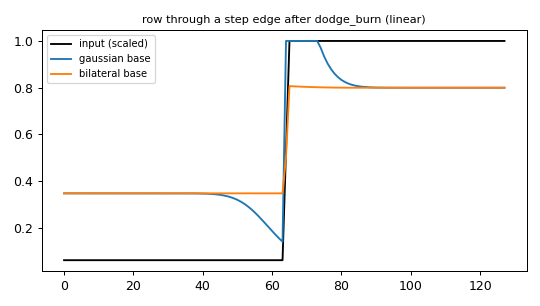
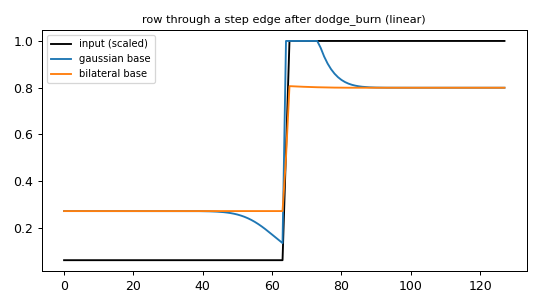
Fix slide references against the decks; keep black objects dark in dodge and burn
Slide references now point at the PDF page that shows the cited content
(e.g. SNR examples L2 p32, ISO p39; removed the non-existent L2 s45).
dodge_burn soft-limits the shadow lift and applies it multiplicatively, so
true black stays black (regression test added). The regular dot texture in
the median/Malvar crops is documented as expected on saturated colour.

Changed region(s): [[0.1185, 0.5294, 0.5333, 0.7647], [0.5037, 0.7647, 0.5333, 0.7941]]

diff --git a/isp/sensor.py b/isp/sensor.py
@@ -65,7 +65,7 @@ class SensorParams:
 
 
 PRESETS = {
-    # numbers of L2 s31 / s33
+    # sensor numbers of L2 s27, SNR examples of L2 s32, dynamic range of L2 s33
     "retiga_4000r": SensorParams(qe=0.55, full_well=40000, dark_current=1.64, read_noise=12.0,
                                  bits=12, black_level=64, prnu=0.005, dsnu=0.2,
                                  hot_pixel_fraction=1e-4, hot_pixel_rate=30.0, name="Retiga 4000R"),
@@ -93,7 +93,7 @@ def fixed_pattern(shape, params: SensorParams) -> dict:
     ``dark`` the per-pixel dark current in e-/s (mean + DSNU + hot pixels, >= 0) and
     ``hot`` the boolean hot-pixel map.  Derived only from ``params.sensor_seed`` and
     ``shape``: identical on every call, so a dark frame measured once describes every
-    later exposure (L2 s43).
+    later exposure (L2 s28-29).
     """
     shape = tuple(int(s) for s in shape)
     r = np.random.default_rng(np.random.SeedSequence([int(params.sensor_seed), *shape]))
@@ -115,7 +115,7 @@ def expose(image, exposure, params: SensorParams, flux_at_white=DEFAULT_FLUX, se
 
     Parameters: image in [0, 1] (linear), exposure in s, flux_at_white in photons/pixel/s,
     seed for the per-shot noise (fixed pattern does not depend on it).
-    Returns float32 electrons.   Reference: L2 s34, s45.
+    Returns float32 electrons.   Reference: L2 s34, s31.
     """
     img = np.clip(np.asarray(image, dtype=np.float64), 0.0, None)
     fp = fixed_pattern(img.shape, params)
@@ -129,7 +129,7 @@ def adc(electrons, params: SensorParams, iso=100, seed=0):
     """Electrons -> digital numbers: + read noise, gain, black level, rounding, clipping.
 
     DN = clip(round(gain (e + N(0, N_r^2)) + black), 0, 2^bits - 1),  gain = base_gain iso/100.
-    Returns float32 holding integers.   Reference: L2 s34, s40.
+    Returns float32 holding integers.   Reference: L2 s34, s39.
     """
     e = np.asarray(electrons, dtype=np.float64)
     e = e + rng(seed).standard_normal(e.shape) * params.read_noise
@@ -156,7 +156,7 @@ def capture(image, exposure, iso, params: SensorParams, flux_at_white=DEFAULT_FL
 # calibration and clean-up
 # --------------------------------------------------------------------------
 def dark_frame(shape, exposure, iso, params: SensorParams, seed=1):
-    """Lens-cap exposure: dark current, hot pixels, FPN and read noise only (L2 s42-43)."""
+    """Lens-cap exposure: dark current, hot pixels, FPN and read noise only (L2 s24-30)."""
     return adc(expose(np.zeros(shape), exposure, params, seed=seed), params, iso, seed=seed + 7919)
 
 
@@ -209,7 +209,7 @@ def average_frames(frames):
 # theory
 # --------------------------------------------------------------------------
 def snr_theory(P, qe, t, D, Nr):
-    """SNR = P QE t / sqrt(P QE t + D t + Nr^2).   Reference: L2 s31, s45."""
+    """SNR = P QE t / sqrt(P QE t + D t + Nr^2).   Reference: L2 s31-32."""
     s = np.asarray(P, np.float64) * qe * t
     return s / np.sqrt(s + D * t + Nr ** 2)
 
@@ -234,7 +234,7 @@ def measure_snr(params: SensorParams, value=0.5, exposure=0.01, iso=100, n=32, s
 
     Uses the temporal std of each pixel (so fixed pattern does not count as noise), in
     electrons.  ``mean_e`` is the signal charge (mean dark charge removed, as in the
-    numerator of L2 s45).  Returns dict(snr, mean_e, std_e).  Compare with ``snr_theory_params``.
+    numerator of L2 s31).  Returns dict(snr, mean_e, std_e).  Compare with ``snr_theory_params``.
     """
     img = np.full(shape, value, np.float64)
     stack = np.stack([capture(img, exposure, iso, params, flux_at_white, seed=seed + k)[0]

diff --git a/isp/tonemap.py b/isp/tonemap.py
@@ -19,6 +19,7 @@ from .utils import linear_to_srgb, luminance
 
 _EPS = 1e-6
 _LOG_EPS = 1e-4  # floor for log luminance: 13 stops below white, keeps pure black from dominating
+_MAX_LIFT = 6.0  # stops: soft limit of the base-layer lift in dodge_burn
 METHODS = ("srgb", "linear", "gamma", "hist", "clahe", "local")
 
 
@@ -187,15 +188,27 @@ def dodge_burn(img, sigma=None, strength: float = 0.6, base: str = "gaussian",
                sigma_r: float = 0.5, saturation: float = 1.0, return_layers: bool = False):
     """Automatic dodging and burning (local tone mapping), linear in -> linear out.
 
-    With L = log2 Y split into base B and detail D (:func:`decompose`):
+    With L = log2 Y split into base B and detail D (:func:`decompose`), the anchor is the
+    brightest base value B_max (Durand-Dorsey: the max base maps to 0 stops, the rest is
+    compressed towards it):
 
         L_out = D + (1 - strength) * (B - B_max) + B_max  =  L + strength * (B_max - B)
 
     The base layer's contrast is compressed towards its brightest value (dark regions
     are lifted = dodged relative to bright ones = burned) while the detail layer is
-    kept untouched.  Colour is restored as  rgb_out = (rgb / Y)^saturation * Y_out.
-    ``strength=0`` returns the input; ``strength=1`` flattens the base layer completely.
-    The result is scaled down per pixel where a channel would exceed 1 (hue kept).
+    kept untouched.  Two guards keep deep blacks black:
+
+    * the lift ``x = B_max - B`` (stops) is soft-limited, ``R tanh(x / R)`` with R = 6
+      stops (about ``x`` for small ``x``), so the darkest regions are not lifted without
+      bound (a black object is lifted by at most ~``strength * 6`` stops, not by the full
+      13-stop range of the scene);
+    * the gain is applied multiplicatively, ``Y_out = Y * 2 ** lift``, so a true zero
+      stays zero (no floor offset is added back).
+
+    Colour is restored as  rgb_out = (rgb / Y)^saturation * Y_out.
+    ``strength=0`` returns the input; ``strength=1`` flattens the base layer up to the
+    soft limit.  The result is scaled down per pixel where a channel would exceed 1 (hue
+    kept).
     Apply :func:`isp.utils.linear_to_srgb` afterwards for display.
 
     This is the Durand-Dorsey base/detail operator; Reinhard et al. (2002) is the classic
@@ -208,9 +221,10 @@ def dodge_burn(img, sigma=None, strength: float = 0.6, base: str = "gaussian",
         out = np.clip(a, 0.0, 1.0)
         return (out, decompose(a, sigma, base, sigma_r)) if return_layers else out
     B, D = decompose(a, sigma, base, sigma_r)
-    L_out = D + (1.0 - strength) * (B - B.max()) + B.max()
     y = luminance(a)
-    y_out = np.clip(np.exp2(L_out) - _LOG_EPS, 0.0, None).astype(np.float32)
+    x = B.max() - B                                    # how far below the brightest base, stops
+    lift = strength * _MAX_LIFT * np.tanh(x / _MAX_LIFT)
+    y_out = (y * np.exp2(lift)).astype(np.float32)     # multiplicative: true black stays black
     if a.ndim == 2:
         out = np.clip(y_out, 0, 1)
     else:

diff --git a/tests/test_tonemap.py b/tests/test_tonemap.py
@@ -132,3 +132,21 @@ def test_histogram():
     img = scenes.gray_ramp(64)
     assert T.histogram(img, 16).sum() == 64 * 64
     assert T.histogram(img, 16, per_channel=True).shape == (3, 16)
+
+
+def test_dodge_burn_keeps_black_object_dark():
+    # regression: a deep-black object in the bright half used to be lifted ~12 stops and
+    # blow out to white with speckles; now it is lifted by a bounded amount.
+    img = scenes.high_contrast(128).copy()
+    yy, xx = np.mgrid[:128, :128]
+    disc = (yy - 90) ** 2 + (xx - 100) ** 2 < 18 ** 2
+    img[disc] = 0.002
+    img[(yy - 90) ** 2 + (xx - 100) ** 2 < 4 ** 2] = 0.0          # true black pixels inside
+    left = utils.luminance(img)[:, :32].mean()
+    for base in ("gaussian", "bilateral"):
+        out = T.dodge_burn(img, sigma=8, strength=0.7, base=base)
+        yo = utils.luminance(out)
+        assert yo[disc].mean() < 0.03, (base, yo[disc].mean())
+        assert yo[disc].max() < 0.04, (base, yo[disc].max())
+        assert out[(yy - 90) ** 2 + (xx - 100) ** 2 < 4 ** 2].max() == 0.0   # zero stays zero
+        assert yo[:, :32].mean() > 5 * left                          # shadows are still lifted

diff --git a/isp/demosaic.py b/isp/demosaic.py
@@ -231,7 +231,7 @@ def _noise(shape, sigma, seed):
 
 
 def field_sequential(scene, motion=(0.0, 0.0), frames=None, noise=0.0, seed=0) -> np.ndarray:
-    """Field-sequential capture: R, G, B are three exposures at times 0, 1, 2 (L3 s5-7).
+    """Field-sequential capture: R, G, B are three exposures at times 0, 1, 2 (L3 s6-7).
 
     The scene moves by ``motion = (dy, dx)`` pixels per exposure (or pass your own
     ``frames=(f_R, f_G, f_B)``).  ``out[..., c] = frame_c[..., c]``.  Static: exact.
@@ -246,7 +246,7 @@ def field_sequential(scene, motion=(0.0, 0.0), frames=None, noise=0.0, seed=0) -
 
 
 def three_sensor(scene, noise=0.0, seed=0) -> np.ndarray:
-    """Ideal 3-sensor camera (prism + 3 sensors, L3 s8): every pixel gets R, G and B.  Exact when noise = 0."""
+    """Ideal 3-sensor camera (prism + 3 sensors, L3 s9): every pixel gets R, G and B.  Exact when noise = 0."""
     s = np.asarray(scene, dtype=np.float32)
     return (s + _noise(s.shape, noise, seed)).astype(np.float32)
 

diff --git a/isp/denoise.py b/isp/denoise.py
@@ -154,7 +154,7 @@ def bilateral_weights(img, center, sigma_d: float, sigma_r: float, radius: int |
 # --------------------------------------------------------------------------
 def median(img, size: int = 3) -> np.ndarray:
     """Median filter, per channel, ``size x size`` window (good against salt-and-pepper
-    / hot pixels, edge preserving but removes thin detail).  Reference: L3 s27 (same idea)."""
+    / hot pixels, edge preserving but removes thin detail).  Reference: L3 s26 (same idea: a median removes spikes)."""
     img = _f32(img)
     if img.ndim == 2:
         return ndi.median_filter(img, size=size, mode="mirror").astype(np.float32)

diff --git a/scripts/make_figures_sensor.py b/scripts/make_figures_sensor.py
@@ -98,7 +98,7 @@ def fig_snr():
     save(fig, "sensor_snr_vs_exposure.png")
     for name, flux in (("retiga_4000r", 1000.0), ("aptina_mt9p031", 1000.0 / 11)):
         p = S.PRESETS[name]
-        print(f"    L2 s31 {p.name}: SNR(1 s) = {S.snr_theory(flux, p.qe, 1.0, p.dark_current, p.read_noise):.1f}")
+        print(f"    L2 s32 {p.name}: SNR(1 s) = {S.snr_theory(flux, p.qe, 1.0, p.dark_current, p.read_noise):.1f}")
         for t in (1, 1 / 60):
             print(f"    L2 s33 {p.name} DR(t={t:.4f}) = {S.dynamic_range(p.full_well, p.dark_current, t, p.read_noise):.0f}:1")
 

diff --git a/tests/test_sensor.py b/tests/test_sensor.py
@@ -9,7 +9,7 @@ def flat(v, n=64):
     return np.full((n, n), v, np.float32)
 
 
-def test_snr_theory_slide31():
+def test_snr_theory_slide32():
     r = S.PRESETS["retiga_4000r"]
     a = S.PRESETS["aptina_mt9p031"]
     assert abs(S.snr_theory(1000, r.qe, 1.0, r.dark_current, r.read_noise) - 20.8) < 0.1

diff --git a/docs/04_tone_mapping.md b/docs/04_tone_mapping.md
@@ -15,7 +15,7 @@ After white balance and demosaicing the image is still *linear*: pixel values ar
 
 **Automatic dodge and burn (base/detail).** Work in the log of luminance, `L = log2 Y`, where multiplying light by a factor is an addition. Split `L = B + D` with a smooth base `B` (the local brightness, the "where would the card go" map) and a detail layer `D = L - B` (texture and edges). Then
 `L_out = D + (1 - s)(B - B_max) + B_max = L + s (B_max - B)`.
-Every pixel is brightened by `s` times how far its local brightness is below the brightest region, in stops. The detail is untouched, the base contrast is reduced by the factor `1 - s`. This is the scheme of Durand and Dorsey (2002); Reinhard et al. (2002), "Photographic Tone Reproduction", is the classic automatic dodging-and-burning operator that uses a global key plus a local adaptation level. **We implement the Durand-Dorsey base/detail operator** and borrow the idea of an anchor (`B_max`) from Reinhard.
+Every pixel is brightened by `s` times how far its local brightness is below the brightest region, in stops, with that lift soft-limited to about 6 stops, `R tanh(x / R)` with `x = B_max - B` and `R = 6`. Without the limit the darkest region of the scene (here a black visor, 13 stops below white) gets the largest lift of all and is blown out together with its noise; with it a black object is lifted by at most about `0.7 * 6 = 4` stops. The detail is untouched, the base contrast is reduced by the factor `1 - s`. This is the scheme of Durand and Dorsey (2002); Reinhard et al. (2002), "Photographic Tone Reproduction", is the classic automatic dodging-and-burning operator that uses a global key plus a local adaptation level. **We implement the Durand-Dorsey base/detail operator** and borrow the idea of an anchor (`B_max`) from Reinhard.
 
 **Halos.** If `B` is a Gaussian blur, it averages across strong edges. Next to a dark/bright edge the base on the bright side is pulled down by the dark side, so `s (B_max - B)` boosts it too much: a bright halo appears on the bright side (and a dark one on the dark side). An edge-preserving base (bilateral filter, weights `exp(-d^2/2 sigma_s^2) exp(-(L_p - L_q)^2 / 2 sigma_r^2)`, with `sigma_r` in stops) does not average across the step and the halo goes away.
 
@@ -23,7 +23,7 @@ Every pixel is brightened by `s` times how far its local brightness is below the
 Automatic dodge and burn (`dodge_burn`, linear in, linear out):
 1. `Y = 0.2127 R + 0.7152 G + 0.0722 B`, `L = log2(Y + 1e-4)`.
 2. Base `B = smooth(L)` (Gaussian of std `sigma`, or bilateral); detail `D = L - B`.
-3. `L_out = D + (1 - s)(B - B_max) + B_max`; `Y_out = 2^L_out`.
+3. Lift `u = s R tanh((B_max - B) / R)` stops (`R = 6`; for small differences this is `L_out = L + s (B_max - B)`, the Durand-Dorsey formula); `Y_out = Y 2^u`, multiplicative so a true zero stays zero.
 4. Restore colour: `rgb_out = (rgb / Y)^c * Y_out` (`c = saturation = 1`); scale pixels with a channel above 1 down; output in [0, 1].
 5. For display apply the sRGB curve (`tonemap(..., 'local')` does this).
 
@@ -51,12 +51,12 @@ All numbers are printed by `python scripts/make_figures_tonemap.py` (256 x 256 s
 | gamma 1/2.2 | 0.078 | 0.376 | 4.84 | 0.219 | 0.566 |
 | hist-eq | 0.339 | 0.540 | 1.59 | 0.275 | 0.541 |
 | CLAHE | 0.365 | 0.354 | 0.97 | 0.561 | 0.564 |
-| dodge & burn, Gaussian | 0.378 | 0.561 | 1.49 | 0.333 | 0.566 |
-| dodge & burn, bilateral | 0.419 | 0.639 | 1.52 | 0.236 | 0.432 |
+| dodge & burn, Gaussian | 0.220 | 0.514 | 2.34 | 0.348 | 0.633 |
+| dodge & burn, bilateral | 0.224 | 0.531 | 2.37 | 0.334 | 0.610 |
 
-  What to look for. The global curves (sRGB, gamma) keep detail contrast exactly as in the input (same last two columns: a monotone curve acting on all pixels cannot change relative local contrast in log terms) but leave the dark side at 0.05..0.08. Histogram equalisation lifts the dark side to 0.34 with a global curve, at the price of a strongly altered look. CLAHE and dodge-and-burn bring the two halves to a ratio of 1.0..1.5 instead of 7; CLAHE also raises the dark-side detail (0.56, amplifying noise and texture), dodge-and-burn keeps it near the input value (0.33 / 0.24 against 0.22). The bilateral variant gives the lowest bright-side detail (0.432), because it assigns the strongest edges to the base layer.
+  What to look for. The global curves (sRGB, gamma) keep detail contrast exactly as in the input (same last two columns: a monotone curve acting on all pixels cannot change relative local contrast in log terms) but leave the dark side at 0.05..0.08. Histogram equalisation lifts the dark side to 0.34 with a global curve, at the price of a strongly altered look. CLAHE brings the two halves to a ratio of 1.0 and dodge-and-burn to about 2.3, instead of 7; CLAHE also raises the dark-side detail (0.56, amplifying noise and texture), dodge-and-burn keeps it near the input value (0.35 / 0.33 against 0.22). Dodge-and-burn lifts the shadowed left half (mean display value 0.05 -> 0.22) but keeps the black helmet visor at the bottom right black: its dark pixels (input mean 0.0002) end at 0.002 linear (max 0.03), because the lift is bounded (see below); an earlier version without the bound turned the visor white with dark speckles (dark-visor mean 0.010 / 0.025 and maxima 0.28 / 0.86 for Gaussian / bilateral base). Histogram equalisation does lift the visor, which is simply what a global equaliser does: it spends output range on the many dark pixels.
 * `docs/figures/tonemap_halo_zoom.png` - the transition region at 3x: sRGB, Gaussian base and bilateral base. Look at the helmet and the shuttle/flag edges: the Gaussian base shows a bright rim next to dark objects, the bilateral base is clean.
-* `docs/figures/tonemap_halo_profile.png` - one row through a 0.05 -> 0.8 step edge after `dodge_burn` (`sigma = 8`, `strength = 0.7`). Overshoot beyond the plateau as a fraction of the step height: **0.458 for the Gaussian base against 0.015 for the bilateral base**.
+* `docs/figures/tonemap_halo_profile.png` - one row through a 0.05 -> 0.8 step edge after `dodge_burn` (`sigma = 8`, `strength = 0.7`). Overshoot beyond the plateau as a fraction of the step height: **0.379 for the Gaussian base against 0.013 for the bilateral base**.
 * `docs/figures/tonemap_base_detail.png` - the decomposition. The log luminance spans 13.3 stops; the bilateral base spans 13.2 stops (it keeps the large edges, e.g. the helmet, and so removes only the texture) while the Gaussian base spans 11.5 (the large edges are smeared). The detail layer of the Gaussian version has big values along strong edges; those are the future halos. The last panel is the compressed base recombined with the detail.
 * `docs/figures/tonemap_mask.png` - `dodge_burn_mask`: the face region is dodged by +1 stop (mean linear luminance 0.155 -> 0.288, x1.86 instead of x2 because the mask is feathered and some pixels clip), then the bottom strip burned by -1 stop (0.071 -> 0.037).
 

diff --git a/docs/01_sensor_and_noise.md b/docs/01_sensor_and_noise.md
@@ -12,7 +12,7 @@ the camera pipeline (demosaicing, white balance, denoising) inherits this noise,
 so it pays to know where each part comes from and which part can be removed.
 `isp.sensor` simulates the chain of L2 s34 pixel by pixel, in physical units
 (electrons, seconds), and gives you the closed-form SNR and dynamic range of
-L2 s31 and s33 to check the simulation against.
+L2 s31-33 to check the simulation against.
 
 ## 2. Theory
 
@@ -29,18 +29,18 @@ For a pixel with photon flux `P` (photons/s), quantum efficiency `Q_e`, exposure
 - readout: `DN = round(g (n + N(0, N_r^2)) + black)`, with `g = g_100 * ISO/100`
   in DN per electron.
 
-### 2.2 Noise types (L2 s18-30, s42-44)
+### 2.2 Noise types (L2 s18-30)
 
 | source | statistics | removable? |
 |---|---|---|
 | photon (shot) noise | Poisson, variance = mean signal | no, set by physics |
 | dark current | Poisson on `D t`; mean grows with `t` and temperature | its mean yes (dark frame); its shot noise no |
 | hot pixels | a few pixels with huge `D` | yes: dark frame or median fix |
-| fixed pattern (PRNU, DSNU) | the same every shot; gain error and dark offset | yes: read once, subtract (s43) |
-| read noise | Gaussian, independent per readout | no (cooling at best, s44) |
+| fixed pattern (PRNU, DSNU) | the same every shot; gain error and dark offset | yes: read once, subtract (s28-29) |
+| read noise | Gaussian, independent per readout | no (cooling at best, s30) |
 | quantisation | uniform, variance 1/12 DN^2 | no, but irrelevant if noise >> 1 DN |
 
-### 2.3 SNR (L2 s31, s45)
+### 2.3 SNR (L2 s31-32)
 
 Independent noise sources add in variance, `sigma^2 = sigma_photon^2 + sigma_dark^2 + sigma_read^2`, so
 
@@ -50,7 +50,7 @@ Two regimes follow.  When the signal is large, SNR `~ sqrt(P Q_e t)`: shot-noise
 limited, doubling the exposure gains `sqrt 2`.  When it is small, SNR `~ P Q_e t / N_r`:
 read-noise limited, SNR grows linearly with exposure.
 
-Slide 31 examples (reproduced by `snr_theory`): Retiga 4000R at 1000 photons/px/s,
+Slide 32 examples (reproduced by `snr_theory`): Retiga 4000R at 1000 photons/px/s,
 1 s: **20.8:1**; Aptina MT9P031 with pixels 1/11 the area (`P = 1000/11`): **6.5:1**.
 
 ### 2.4 Dynamic range (L2 s33)
@@ -62,7 +62,7 @@ Largest signal over the noise floor in the dark.  Slide values reproduced by
 and ~3200:1 (1/60 s).  The Aptina drops at long exposure because its dark current
 (25 e-/s) eats the well and adds noise.
 
-### 2.5 ISO and exposure (L2 s40)
+### 2.5 ISO and exposure (L2 s36-39)
 
 ISO multiplies the signal **and** the noise that exists before the amplifier, so
 it does not change the electron-domain SNR.  It only decides where the signal
@@ -199,7 +199,7 @@ linear = S.normalize(dn, meta)           # in [0, 1] for the next stage
 ## 7. Limitations and extensions
 
 - One PRNU and one DSNU level, i.i.d. per pixel.  Real CMOS sensors have row and
-  column pattern noise (L2 s43 shows it); adding `r[:, None] + c[None, :]` is a small extension.
+  column pattern noise (L2 s29-30 show it); adding `r[:, None] + c[None, :]` is a small extension.
 - Dark current is temperature independent; it roughly doubles every 6 K.
 - No lens, blooming, charge transfer, or rolling shutter.
 - ADC noise beyond rounding, and non-linearity, are not modelled.
@@ -212,6 +212,6 @@ linear = S.normalize(dn, meta)           # in [0, 1] for the next stage
 - M. Levoy, *Computational Photography*, lecture slides "Sensors and Noise"
   (Stanford CS 448 / lecture 2 of this course), slides cited as L2 sNN.
 - Hamamatsu, *Concepts in digital imaging: CCD signal-to-noise ratio*,
-  learn.hamamatsu.com (source of the SNR formula on L2 s45).
+  learn.hamamatsu.com (source of the SNR formula on L2 s31).
 - J. Janesick, *Photon Transfer*, SPIE Press, 2007.
 - EMVA Standard 1288, *Characterization of image sensors and cameras*.

diff --git a/docs/02_color_sensing_demosaicing.md b/docs/02_color_sensing_demosaicing.md
@@ -61,7 +61,7 @@ All numbers from `python scripts/make_figures_demosaic.py` (RGGB, size 256, no n
 
 **`demosaic_zoneplate.png`.** A grey zone plate reaches Nyquist at the image edge, so every colour in the output is false. False colour (RMS chroma error): nearest 0.320, bilinear 0.245, bicubic 0.265, Freeman median 0.140, Malvar 0.176. Look at the left/right/top/bottom edges: the saturated rings of nearest and bilinear are replaced by weaker, finer fringes with median and Malvar. Bicubic is not better than bilinear at colour here (0.265 vs 0.245): a wider kernel does not remove aliasing that is already in the samples.
 
-**`demosaic_crops.png`.** The 48x48 window of the astronaut where bilinear makes the largest chroma error (rows 176-224, cols 80-128). PSNR / false colour in that window: nearest 18.2 dB / 0.092, bilinear 23.2 / 0.053, bicubic 23.4 / 0.053, median 26.9 / 0.037, Malvar 26.6 / 0.039. Nearest shows blocky 2x2 steps and strong fringes; bilinear and bicubic are smooth but fringed; median and Malvar are visibly cleaner.
+**`demosaic_crops.png`.** The 48x48 window of the astronaut where bilinear makes the largest chroma error (rows 176-224, cols 80-128). PSNR / false colour in that window: nearest 18.2 dB / 0.092, bilinear 23.2 / 0.053, bicubic 23.4 / 0.053, median 26.9 / 0.037, Malvar 26.6 / 0.039. Nearest shows blocky 2x2 steps and strong fringes; bilinear and bicubic are smooth but fringed; median and Malvar are visibly cleaner. The faint regular grid of darker red dots they leave on the saturated orange suit is expected, not a bug: both methods assume the colour channels change together (Malvar adds a fraction of the R Laplacian to G and B; Freeman keeps the measured sample and a smoothed chroma), but on a saturated colour R varies strongly while the dim G and B channels hardly do, so their estimates at the R and B sites are off by a fixed amount and the error repeats with the 2x2 period, and the linear data make it visible (on a synthetic saturated orange ramp the mean relative error of the dim B channel is 0.04 for bilinear but 0.36 for median and 0.51 for Malvar, while on a desaturated version they beat bilinear). We checked that smooth ramps are reproduced exactly (to 1e-5) by bilinear, bicubic, median and Malvar for all four CFA patterns, and that the errors have no bias and are identical across patterns.
 
 **`demosaic_linear_vs_median.png`** (the layout of s28). Whole "coffee" image, then a zoom on the spoon, where chrome highlights are fringed: false colour 0.0235 (linear) vs 0.0170 (median); in the zoomed window 0.0457 vs 0.0294. The coloured speckles around the highlights shrink, but the median image shows a faint pixel-level grain: luminance is recomputed per site from the measured sample against smooth chroma, so mosaic residue moves into Y. That is the price of keeping measured samples exactly.
 

diff --git a/docs/06_sharpening.md b/docs/06_sharpening.md
@@ -73,6 +73,6 @@ print(S.noise_gain(S.sharpening_kernel(1)))                    # 5.39
 * Extensions: edge-aware unsharp masking (bilateral or guided-filter base layer, no halos), noise-adaptive thresholds, local-contrast (large sigma) vs. detail (small sigma) in one pipeline, deconvolution (Wiener, Richardson-Lucy) as the principled alternative, and the pipeline order in `isp.pipeline` (tone map -> denoise -> sharpen -> JPEG).
 
 ## 8. References
-* Lecture 5 "Post-processing: Denoising, Sharpening, Compression", slides 11-17 (Photoshop Custom kernels, unsharp masking S = x + lam F(x)); the unsharp-masking figure is credited on the slide to NPTEL (chapter 8).
+* Lecture 5 "Post-processing: Denoising, Sharpening, Compression", slides 12-17 (Photoshop Custom kernels, unsharp masking S = x + lam F(x)); the unsharp-masking figure is credited on the slide to NPTEL (chapter 8).
 * R. C. Gonzalez and R. E. Woods, *Digital Image Processing*, 4th ed., sections 3.6 (Sharpening spatial filters: Laplacian, unsharp masking, high-boost filtering).
 * A. K. Jain, *Fundamentals of Digital Image Processing*, 1989 (unsharp masking as a high-pass boost).
